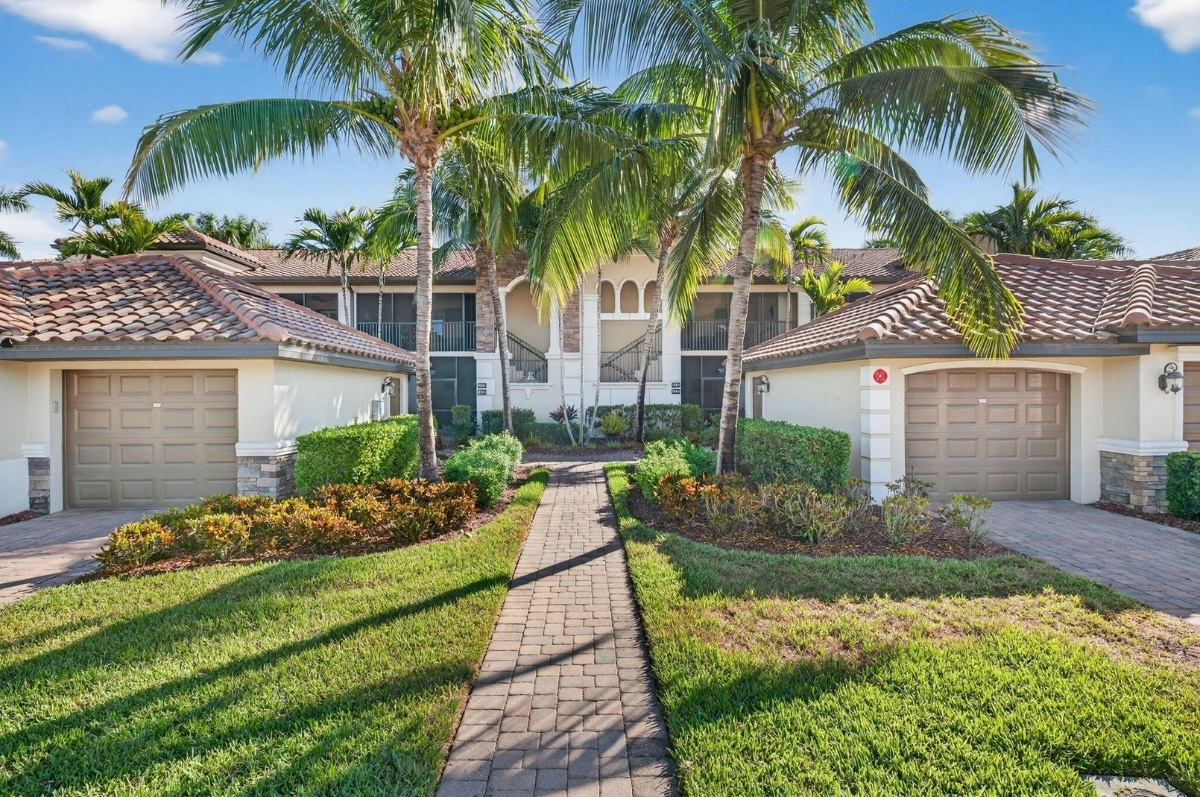
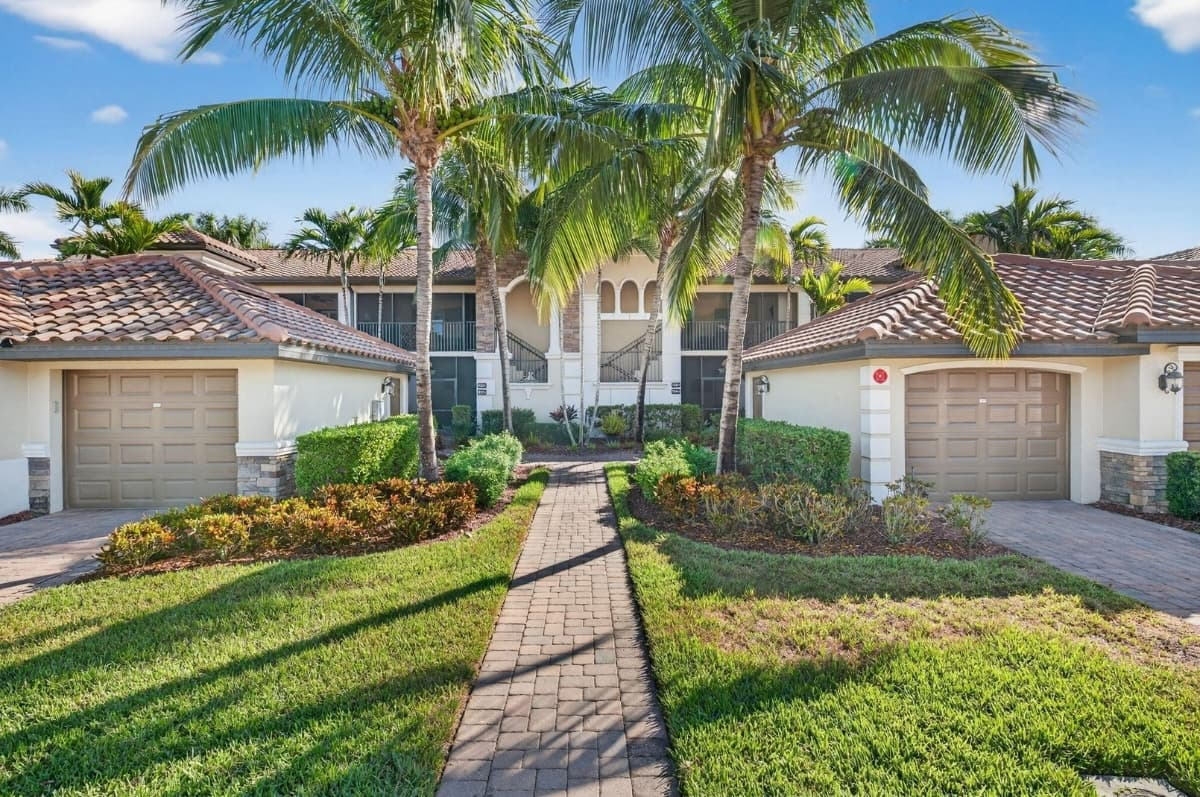
perf: optimize Airbnb investment images

diff --git a/src/components/airbnb-investment/AirbnbGoalsSection.tsx b/src/components/airbnb-investment/AirbnbGoalsSection.tsx
@@ -1,4 +1,4 @@
-import bonitaSunset from "../../assets/bonita-sunset.png";
+import bonitaSunset from "../../assets/bonita-sunset.jpg";
 
 export default function AirbnbGoalsSection() {
   return (
